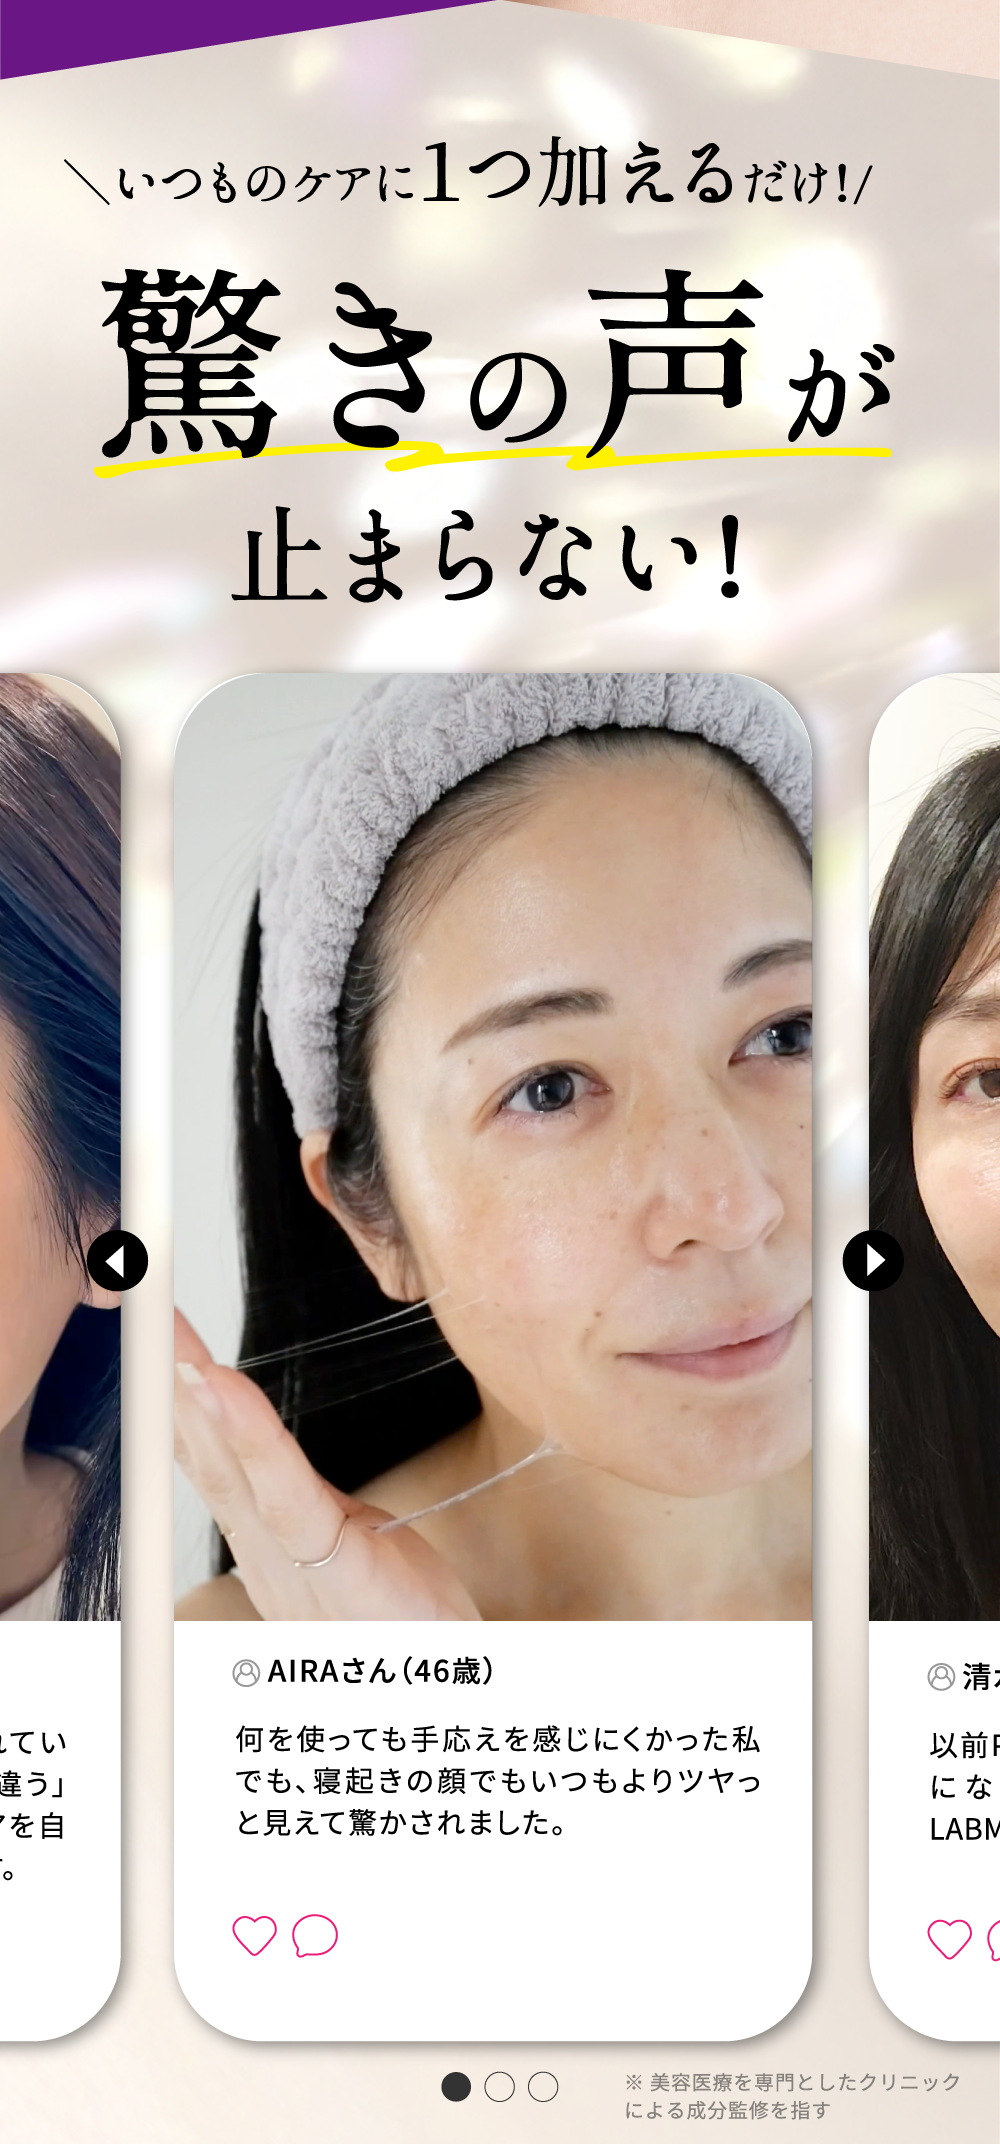
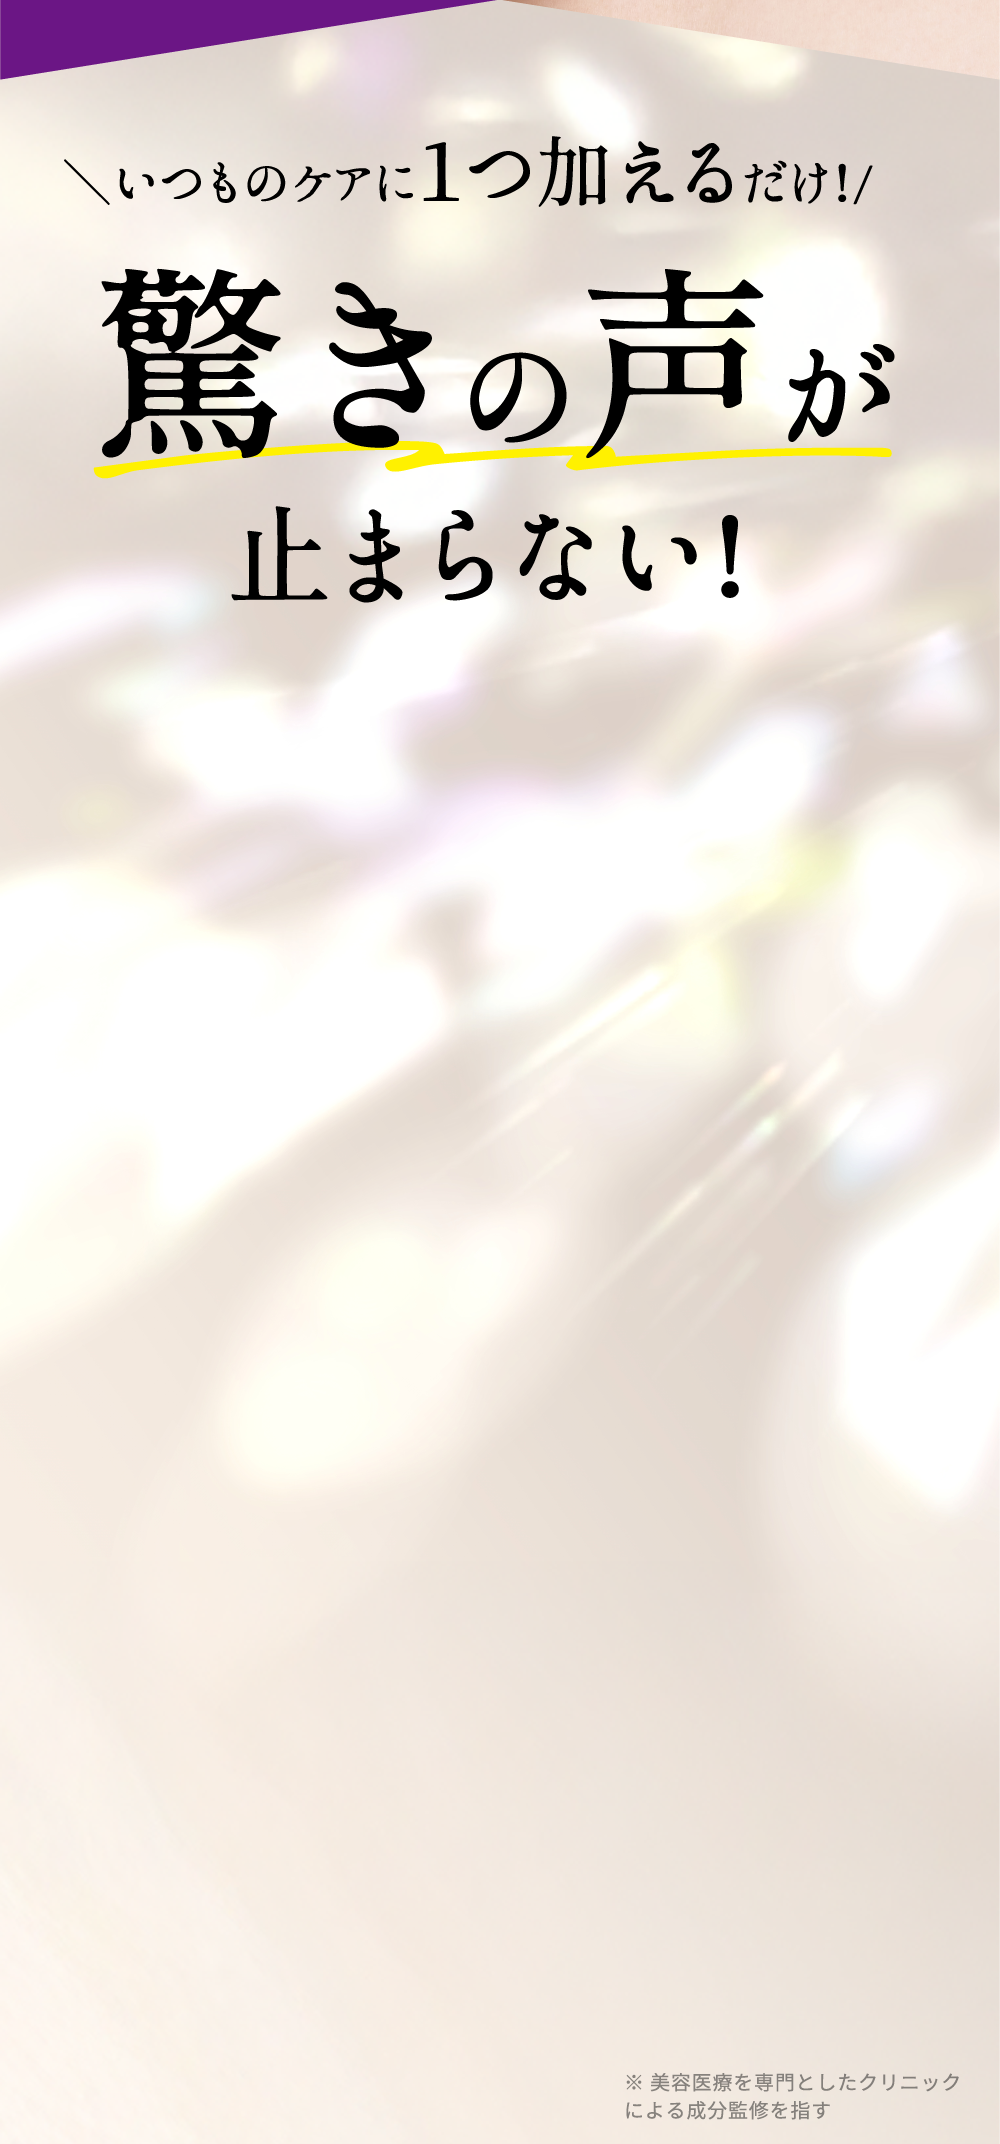
style: 輪播圖定位

diff --git a/index.html b/index.html
@@ -96,22 +96,65 @@
               <!-- 自由編輯區 S -->
               <div class="swiper-slide">
                 <img src="./images/slide/slide01-1.png" alt="">
+                <div class="absolute slide01-video-box">
+                  <video class="lazy absolute slide01-video" data-src="./images/movie/slide01-1.mp4"
+                        width="100%" height="100%"
+                        playsinline muted autoplay loop>
+                    
+                  </video>
+                </div>
               </div>
               <div class="swiper-slide">
                 <img src="./images/slide/slide01-2.png" alt="">
+                <div class="absolute slide01-video-box">
+                  <video class="lazy absolute slide01-video" data-src="./images/movie/slide01-2.mp4"
+                        width="100%" height="100%"
+                        playsinline muted autoplay loop>
+                    
+                  </video>
+                </div>
               </div>
               <div class="swiper-slide">
                 <img src="./images/slide/slide01-3.png" alt="">
+                <div class="absolute slide01-video-box">
+                  <video class="lazy absolute slide01-video" data-src="./images/movie/slide01-3.mp4"
+                        width="100%" height="100%"
+                        playsinline muted autoplay loop>
+                    
+                  </video>
+                </div>
               </div>
               <div class="swiper-slide">
                 <img src="./images/slide/slide01-1.png" alt="">
+                <div class="absolute slide01-video-box">
+                  <video class="lazy absolute slide01-video" data-src="./images/movie/slide01-1.mp4"
+                        width="100%" height="100%"
+                        playsinline muted autoplay loop>
+                    
+                  </video>
+                </div>
               </div>
               <div class="swiper-slide">
                 <img src="./images/slide/slide01-2.png" alt="">
+                <div class="absolute slide01-video-box">
+                  <video class="lazy absolute slide01-video" data-src="./images/movie/slide01-2.mp4"
+                        width="100%" height="100%"
+                        playsinline muted autoplay loop>
+                    
+                  </video>
+                </div>
               </div>
               <div class="swiper-slide">
                 <img src="./images/slide/slide01-3.png" alt="">
+                <div class="absolute slide01-video-box">
+                  <video class="lazy absolute slide01-video" data-src="./images/movie/slide01-3.mp4"
+                        width="100%" height="100%"
+                        playsinline muted autoplay loop>
+                    
+                  </video>
+                </div>
               </div>
+              
               <!-- 自由編輯區 E -->
             </div>
           </div>

diff --git a/css/slide.css b/css/slide.css
@@ -125,6 +125,64 @@
     border-color: #333;
 }
 
+/* 位置調整 */
+.thing06-1 .swiperBtnR,
+.thing06-1 .swiperBtnL {
+    top: 41.5%;
+}
+
+.thing06-1 .swiper-pagination {
+    bottom: 0.5%;
+}
+
+.thing07-1 .swiper-pagination {
+    bottom: -5.5%;
+}
+
+.thing24-1 .swiperBtnR,
+.thing24-1 .swiperBtnL {
+    width: 50px;
+    height: 50px;
+    top: 49%;
+}
+
+.thing24-1 .swiperBtnR {
+    right: 3.75%;
+}
+
+.thing24-1 .swiperBtnL {
+    left: 4.25%;
+}
+
+.thing24-1 .swiper-slide,
+.thing36-1 .swiper-slide {
+    display: flex;
+    justify-content: center;
+    align-items: center;
+}
+
+.thing24-1 .swiper-pagination {
+    bottom: -1%;
+}
+
+.mySwiper4 .swiper-slide img {
+    margin-left: 4%;
+}
+
+.thing36-1 .swiperBtnR_02,
+.thing36-1 .swiperBtnL_02 {
+    width: 140px;
+    height: 25px;
+}
+
+.thing36-1 .swiperBtnR_02 {
+    right: 16.5%;
+}
+
+.thing36-1 .swiperBtnL_02 {
+    left: 17.5%;
+}
+
 @media (max-width: 768px) {
 
     .thing06-1 .swiper-pagination-bullet,
@@ -133,5 +191,63 @@
         width: 12px;
         border: 1px solid #333;
         height: 12px;
+        margin: 0 3.5px !important;
     }
+
+    /* 位置調整 */
+
+    .thing06-1 .swiper-pagination {
+        bottom: 4.25%;
+    }
+
+    .thing07-1 .swiper-pagination {
+        bottom: -6.5%;
+    }
+
+    .thing24-1 .swiperBtnR,
+    .thing24-1 .swiperBtnL {
+        width: 25px;
+        height: 25px;
+        top: 51%;
+    }
+
+    .mySwiper3 .swiper-slide img {
+        scale: 0.95;
+    }
+
+    .thing24-1 .swiper-pagination {
+        bottom: 1%;
+    }
+
+    .thing36-1 .swiperBtnR_02,
+    .thing36-1 .swiperBtnL_02 {
+        width: 65px;
+        height: 15px;
+        top: 54%;
+    }
+
+    .mySwiper4 .swiper-slide img {
+        scale: 0.92;
+    }
+}
+
+/* 影片輪播  */
+.slide01-video-box {
+    width: 92.7%;
+    height: 68%;
+    position: absolute;
+    top: 0.8%;
+    left: 3%;
+    /* background: red; */
+    -webkit-mask: url("../images/slide/slide01-mask.png") no-repeat center center;
+    mask: url("../images/slide/slide01-mask.png") no-repeat center center;
+    -webkit-mask-size: contain;
+    mask-size: contain;
+}
+
+.slide01-video {
+    width: 120%;
+    height: 120%;
+    left: 50%;
+    transform: translateX(-50%);
 }

diff --git a/css/all.css b/css/all.css
@@ -161,13 +161,13 @@ a {
 
 .thing06-1 {
     width: 100%;
-    top: 31%;
+    top: 30%;
     left: 0%;
 }
 
 .thing07-1 {
     width: 100%;
-    top: 0%;
+    top: 2%;
     left: 0%;
 }
 
@@ -748,6 +748,13 @@ a {
     left: 0%;
     top: 27.5%;
 }
+@media (max-width: 768px) {
+    .thing24-1 {
+        width: 100%;
+        left: 0%;
+        top: 26%;
+    }
+}
 
 .thing26-1 {
     width: 25.9%;
@@ -1051,8 +1058,13 @@ a {
 
 .thing36-1 {
     width: 100%;
-    top: 0%;
+    top: 46.5%;
     left: 0%;
+}
+@media (max-width: 768px) {
+    .thing36-1 {
+        top: 44.5%;
+    }
 }
 
 .thing39-1 {

diff --git a/js/slide.js b/js/slide.js
@@ -2,7 +2,7 @@ var swiper = new Swiper(".mySwiper", {
     effect: "coverflow",
     grabCursor: true,
     centeredSlides: true,
-    slidesPerView: "1.5",
+    slidesPerView: "1.45",
     loop: true,
     speed: 600,
     coverflowEffect: {
@@ -38,7 +38,7 @@ var swiper2 = new Swiper(".mySwiper2", {
     effect: "coverflow",
     grabCursor: true,
     centeredSlides: true,
-    slidesPerView: "1.65",
+    slidesPerView: "1.7",
     loop: true,
     initialSlide: 0,
     speed: 600,
